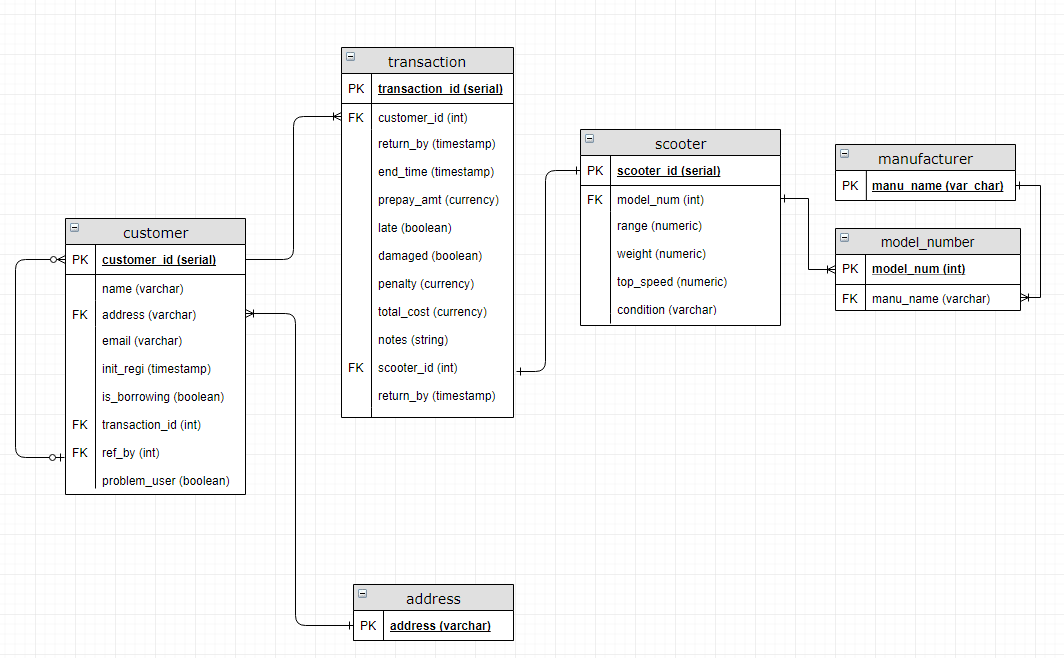
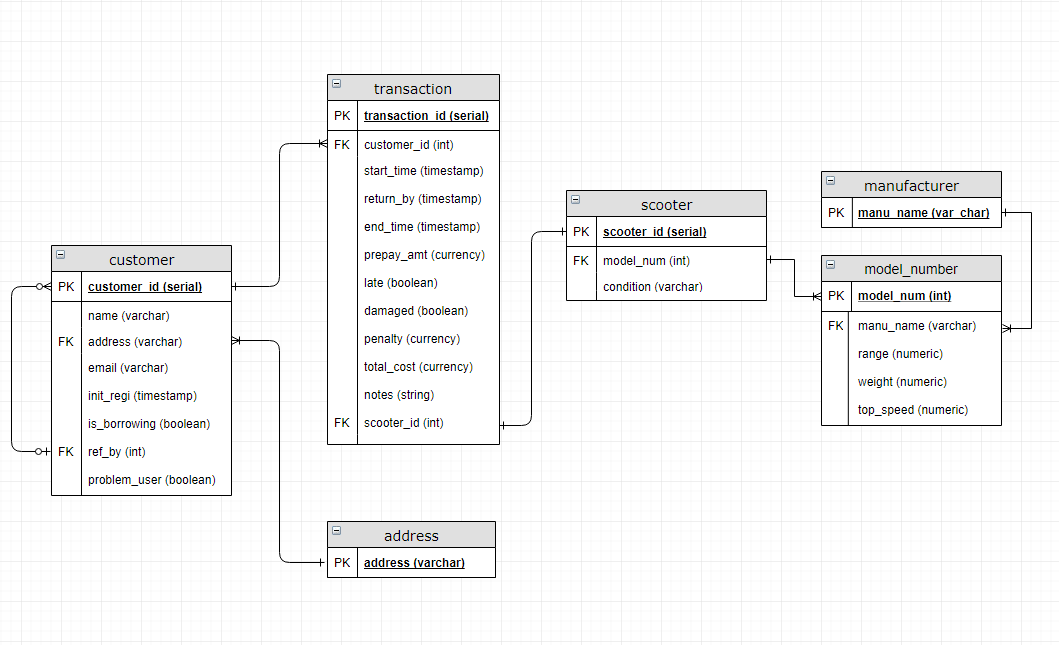
completed the rest of part 1 queries, and small update to er-diagram. readme in progress.

diff --git a/README.md b/README.md
@@ -4,8 +4,24 @@
 
 ![er diagram for scoot share](er-diagram.png)
 
-* TODO: a list of design decisions
-* TODO: a list of assumptions
+### Design Decisions
+
+The database I created is not in 3NF - in particular, the transaction and scooter
+tables have fields with transitive dependencies. For the transaction table, such 
+fields include `late`, `total_cost`, and potentially `penalty`. These fields are
+implied by other fields in the table (for example `late` can be calculated using
+`end_time` and `return_by`). However, maintaining these fields allowed for easier
+access to information that was quite important for the business logic that the 
+database represented, so I felt their inclusion was warranted.
+
+For the purposes of simplicity, the `address` table has only a single field. It is
+obviously possible to extend this to fields like `zip`, `country`, `state`, etc,
+but this would require additional tables to represent the one-to-many relationship,
+and doesn't meaningfully add to the functionality of the database.
+
+
+### Assumptions
+This database design doesn't make 
 
 Scripts
 
@@ -13,7 +29,12 @@ Scripts
 * [part-1-scoot-share-queries.sql](part-1-scoot-share-queries.sql)
 
 ## Normalization
+For the dataset, the only cleaning I did was to remove the "total" column,
+since it was a transitive dependency, and since the information it provided
+wasn't particularly useful, it wasn't worth the effort to try normalizing it.
 
+* [Pokemon Dataset Original](Pokemon.csv)
+* [Pokemon Dataset Cleaned](pokemon_cleaned.csv)
 * [part-2-normalization-create.sql](part-2-normalization-create.sql)
 * [part-2-normalization-import.sql](part-2-normalization-import.sql)
 * [part-2-normalization-queries.sql](part-2-normalization-queries.sql)
